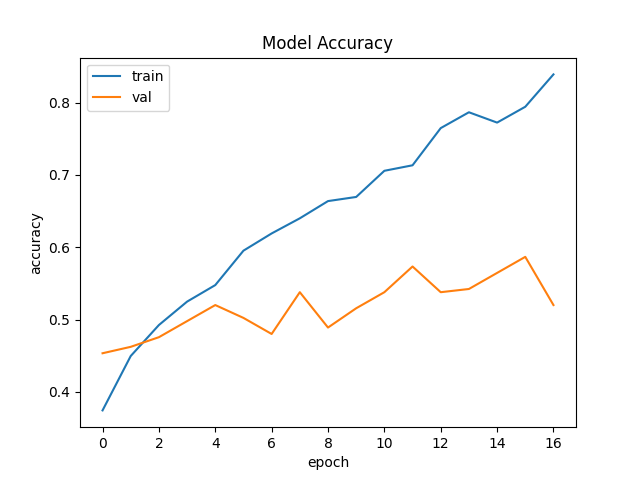
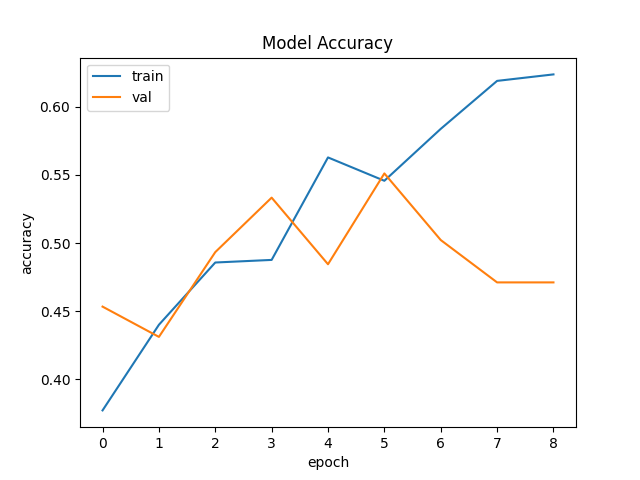
droput set LSTM

diff --git a/Pipeline1TFlow/CNNLSTM.py b/Pipeline1TFlow/CNNLSTM.py
@@ -61,7 +61,7 @@ class TFLSTMCNN:
 
 
 
-        self.LSTMCNN.add(layers.LSTM(hiddenSize,unroll=True))
+        self.LSTMCNN.add(layers.LSTM(hiddenSize,unroll=True,recurrent_dropout=0.3))
         self.LSTMCNN.add(layers.Dropout(0.25))
 
         #final 2 dense classificaiton heads
